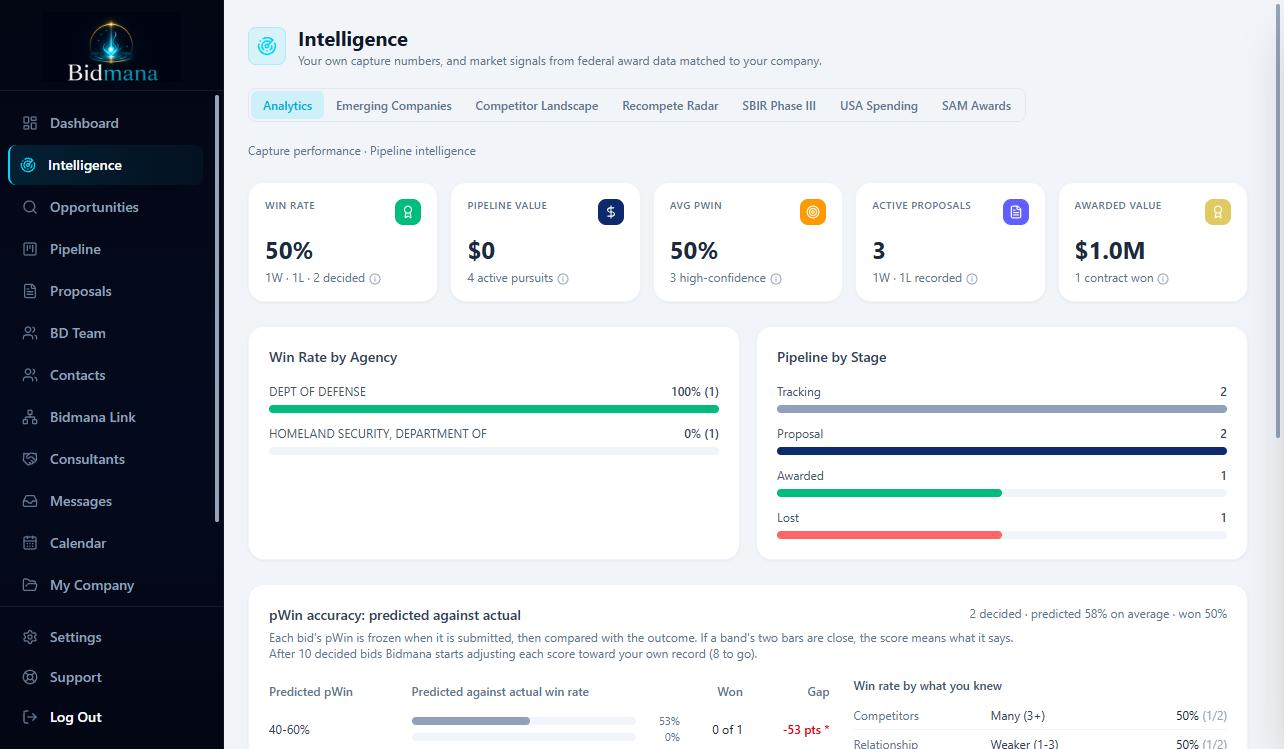
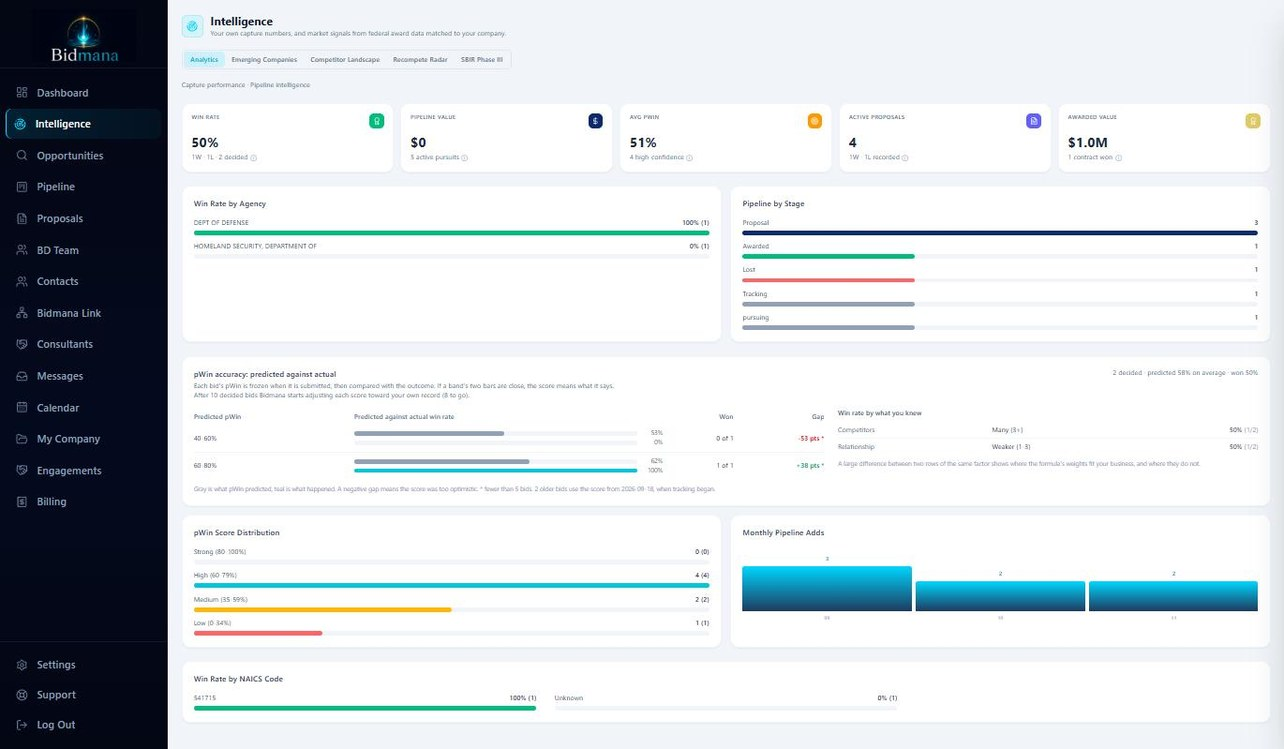
Showcase: intelligence screenshot shows the whole analytics dashboard, nothing cut off

diff --git a/index.html b/index.html
@@ -94,7 +94,7 @@
             <img src="assets/showcase/dashboard.jpg" alt="The Bidmana dashboard: open opportunities matched to the company, key metrics, deadlines and amendment alerts" loading="lazy" width="1284" height="749" />
           </figure>
           <figure class="shot-screen" id="shot-intelligence" role="tabpanel" aria-labelledby="tab-intelligence" hidden>
-            <img src="assets/showcase/intelligence.jpg" alt="Intelligence analytics: win rate, pipeline by stage and predicted versus actual win probability" loading="lazy" width="1284" height="749" />
+            <img src="assets/showcase/intelligence.jpg?v=20261116" alt="Intelligence analytics on one screen: win rate, pipeline by stage, predicted versus actual win probability, score distribution and monthly pipeline adds" loading="lazy" width="1284" height="749" />
           </figure>
           <figure class="shot-screen" id="shot-opportunities" role="tabpanel" aria-labelledby="tab-opportunities" hidden>
             <img src="assets/showcase/opportunities.jpg?v=20261116b" alt="Opportunity search results with fit scores, estimated values, due dates and one-click add to pipeline" loading="lazy" width="1284" height="749" />
